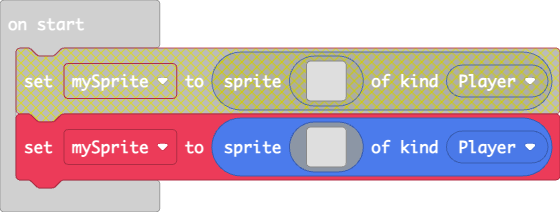
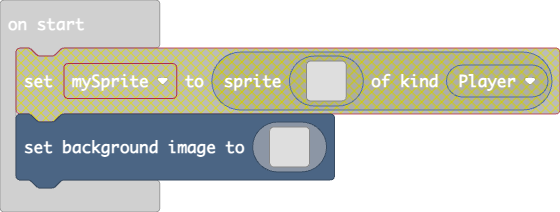
Update main.blocks, main.ts

diff --git a/main.ts b/main.ts
@@ -1,18 +1,122 @@
-let mySprite = sprites.create(img`
-    . . . . . . . . . . . . . . . . 
-    . . . . . . . . . . . . . . . . 
-    . . . . . . . . . . . . . . . . 
-    . . . . . . . . . . . . . . . . 
-    . . . . . . . . . . . . . . . . 
-    . . . . . . . . . . . . . . . . 
-    . . . . . . . . . . . . . . . . 
-    . . . . . . . . . . . . . . . . 
-    . . . . . . . . . . . . . . . . 
-    . . . . . . . . . . . . . . . . 
-    . . . . . . . . . . . . . . . . 
-    . . . . . . . . . . . . . . . . 
-    . . . . . . . . . . . . . . . . 
-    . . . . . . . . . . . . . . . . 
-    . . . . . . . . . . . . . . . . 
-    . . . . . . . . . . . . . . . . 
-    `, SpriteKind.Player)
+scene.setBackgroundImage(img`
+    ................................................................................................................................................................
+    ................................................................................................................................................................
+    ................................................................................................................................................................
+    ................................................................................................................................................................
+    ................................................................................................................................................................
+    ................................................................................................................................................................
+    ................................................................................................................................................................
+    ................................................................................................................................................................
+    ................................................................................................................................................................
+    ................................................................................................................................................................
+    ................................................................................................................................................................
+    ................................................................................................................................................................
+    ................................................................................................................................................................
+    ................................................................................................................................................................
+    ................................................................................................................................................................
+    ................................................................................................................................................................
+    ................................................................................................................................................................
+    ................................................................................................................................................................
+    ................................................................................................................................................................
+    ................................................................................................................................................................
+    ................................................................................................................................................................
+    ................................................................................................................................................................
+    ................................................................................................................................................................
+    ................................................................................................................................................................
+    ................................................................................................................................................................
+    ................................................................................................................................................................
+    ................................................................................................................................................................
+    ................................................................................................................................................................
+    ................................................................................................................................................................
+    ................................................................................................................................................................
+    ................................................................................................................................................................
+    ................................................................................................................................................................
+    ................................................................................................................................................................
+    ................................................................................................................................................................
+    ................................................................................................................................................................
+    ................................................................................................................................................................
+    ................................................................................................................................................................
+    ................................................................................................................................................................
+    ................................................................................................................................................................
+    ................................................................................................................................................................
+    ................................................................................................................................................................
+    ................................................................................................................................................................
+    ................................................................................................................................................................
+    ................................................................................................................................................................
+    ................................................................................................................................................................
+    ................................................................................................................................................................
+    ................................................................................................................................................................
+    ................................................................................................................................................................
+    ................................................................................................................................................................
+    ................................................................................................................................................................
+    ................................................................................................................................................................
+    ................................................................................................................................................................
+    ................................................................................................................................................................
+    ................................................................................................................................................................
+    ................................................................................................................................................................
+    ................................................................................................................................................................
+    ................................................................................................................................................................
+    ................................................................................................................................................................
+    ................................................................................................................................................................
+    ................................................................................................................................................................
+    ................................................................................................................................................................
+    ................................................................................................................................................................
+    ................................................................................................................................................................
+    ................................................................................................................................................................
+    ................................................................................................................................................................
+    ................................................................................................................................................................
+    ................................................................................................................................................................
+    ................................................................................................................................................................
+    ................................................................................................................................................................
+    ................................................................................................................................................................
+    ................................................................................................................................................................
+    ................................................................................................................................................................
+    ................................................................................................................................................................
+    ................................................................................................................................................................
+    ................................................................................................................................................................
+    ................................................................................................................................................................
+    ................................................................................................................................................................
+    ................................................................................................................................................................
+    ................................................................................................................................................................
+    ................................................................................................................................................................
+    ................................................................................................................................................................
+    ................................................................................................................................................................
+    ................................................................................................................................................................
+    ................................................................................................................................................................
+    ................................................................................................................................................................
+    ................................................................................................................................................................
+    ................................................................................................................................................................
+    ................................................................................................................................................................
+    ................................................................................................................................................................
+    ................................................................................................................................................................
+    ................................................................................................................................................................
+    ................................................................................................................................................................
+    ................................................................................................................................................................
+    ................................................................................................................................................................
+    ................................................................................................................................................................
+    ................................................................................................................................................................
+    ................................................................................................................................................................
+    ................................................................................................................................................................
+    ................................................................................................................................................................
+    ................................................................................................................................................................
+    ................................................................................................................................................................
+    ................................................................................................................................................................
+    ................................................................................................................................................................
+    ................................................................................................................................................................
+    ................................................................................................................................................................
+    ................................................................................................................................................................
+    ................................................................................................................................................................
+    ................................................................................................................................................................
+    ................................................................................................................................................................
+    ................................................................................................................................................................
+    ................................................................................................................................................................
+    ................................................................................................................................................................
+    ................................................................................................................................................................
+    ................................................................................................................................................................
+    ................................................................................................................................................................
+    ................................................................................................................................................................
+    ................................................................................................................................................................
+    ................................................................................................................................................................
+    ................................................................................................................................................................
+    ................................................................................................................................................................
+    `)
